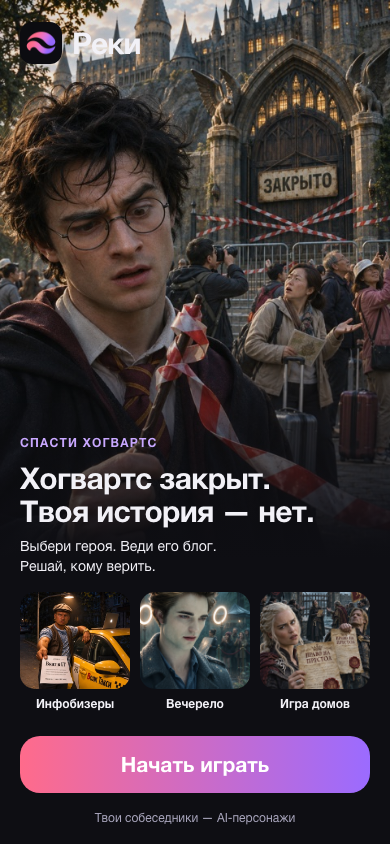
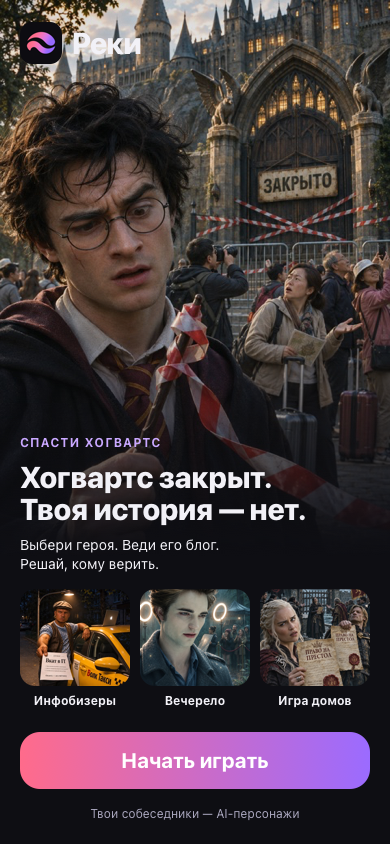
feat(frontend): continue landing selection after auth #205

diff --git a/frontend/src/app/landing/Landing.tsx b/frontend/src/app/landing/Landing.tsx
@@ -1,18 +1,32 @@
 import { useEffect, useRef, useState } from 'react'
+import { api } from '../../api/client'
+import { worlds as templates } from '../../api/worldContent'
+import type { World } from '../../api/types'
 import { Button } from '../../ui'
 import { screenView, trackLanding } from '../analytics'
 import { assignLanding, requestedVariant } from './experiment'
 import './landing.css'
 
 const worlds = [
-  { id: 'infobiz', title: 'Последние инфобизеры' },
-  { id: 'evening', title: 'Вечерело' },
-  { id: 'hogwarts', title: 'Спасти Хогвартс' },
-  { id: 'houses', title: 'Игра домов' },
+  { id: 'infobiz', templateId: '5720946a-ea7c-4a10-9c50-51ce3deefc53', title: 'Последние инфобизеры' },
+  { id: 'evening', templateId: 'b3a1a522-0263-4796-a197-57a8731fc291', title: 'Вечерело' },
+  { id: 'hogwarts', templateId: 'aec9494b-4118-4525-8458-e85d759c8dd9', title: 'Спасти Хогвартс' },
+  { id: 'houses', templateId: '8c02a7fb-3b55-4eb0-b957-1b4869ed9834', title: 'Игра домов' },
 ] as const
 
-export function Landing({ onContinue, preview = false }: { onContinue: () => void; preview?: boolean }) {
+export function Landing({ onContinue, preview = false }: { onContinue: (worldId: string) => void; preview?: boolean }) {
   const [variant] = useState(() => preview ? requestedVariant() ?? 'worlds' : assignLanding())
+  const [selected, setSelected] = useState<string>(variant === 'hogwarts' ? worlds[2].templateId : worlds[0].templateId)
+  const [available, setAvailable] = useState<World[]>([])
+  const [error, setError] = useState(false)
+  const [attempt, setAttempt] = useState(0)
+  useEffect(() => {
+    let active = true
+    setError(false)
+    void api.loadWorldTemplates().then(() => { if (active) setAvailable([...templates]) }).catch(() => { if (active) setError(true) })
+    return () => { active = false }
+  }, [attempt])
+  const chosen = available.find(world => world.id === selected)
   const viewed = useRef(false)
   const clicked = useRef(false)
   const heading = useRef<HTMLHeadingElement>(null)
@@ -24,20 +38,21 @@ export function Landing({ onContinue, preview = false }: { onContinue: () => voi
     trackLanding('landing_view')
   }, [variant, preview])
   const start = () => {
-    if (clicked.current) return
+    if (clicked.current || !chosen) return
     clicked.current = true
-    onContinue()
+    onContinue(chosen.id)
   }
   return <main className={`entry-landing entry-landing--${variant}`} aria-labelledby="landing-title">
     {variant === 'hogwarts' && <img className="landing-hero-art" src="/landing/hogwarts-960.jpg" srcSet="/landing/hogwarts-480.jpg 480w, /landing/hogwarts-960.jpg 960w" sizes="(max-width: 430px) 100vw, 430px" alt="Озадаченный волшебник перед закрытым замком, ограждённым лентой; туристы фотографируют ворота" fetchPriority="high" />}
     <header className="landing-brand"><img src="/android-chrome-192x192.png?v=wave-2" width="42" height="42" alt="" /><span>Реки</span></header>
     {variant === 'worlds' ? <>
       <section className="landing-copy"><h1 ref={heading} id="landing-title" tabIndex={-1}>Твой блог.<br />Твоя история.</h1><p>Выбери героя, пиши посты и смотри, как отвечает его мир.</p></section>
-      <section className="landing-mosaic" aria-label="Игровые миры">{worlds.map(world => <div className="landing-world" key={world.id}><img src={`/landing/${world.id}-480.jpg`} width="480" height="720" alt="" fetchPriority={world.id === 'infobiz' ? 'high' : 'auto'} /><strong>{world.title}</strong></div>)}</section>
+      <section className="landing-mosaic" aria-label="Игровые миры">{worlds.map(world => <button type="button" className="landing-world" key={world.id} aria-pressed={selected === world.templateId} onClick={() => setSelected(world.templateId)}><img src={`/landing/${world.id}-480.jpg`} width="480" height="720" alt="" fetchPriority={world.id === 'infobiz' ? 'high' : 'auto'} /><strong>{world.title}</strong></button>)}</section>
+      <p className="landing-world-summary" aria-live="polite">{chosen?.summary ?? (error ? '' : available.length ? 'Этот мир сейчас недоступен. Выбери другой.' : 'Загружаем миры…')}</p>
     </> : <>
       <section className="landing-hero-copy"><div className="landing-eyebrow">Спасти Хогвартс</div><h1 ref={heading} id="landing-title" tabIndex={-1}>Хогвартс закрыт.<br />Твоя история — нет.</h1><p>Выбери героя. Веди его блог.<br />Решай, кому верить.</p></section>
       <section className="landing-other-worlds" aria-label="Другие игровые миры">{worlds.filter(world => world.id !== 'hogwarts').map(world => <div key={world.id}><img src={`/landing/${world.id}-480.jpg`} width="480" height="720" alt="" /><span>{world.id === 'infobiz' ? 'Инфобизеры' : world.title}</span></div>)}</section>
     </>}
-    <footer className="landing-actions"><Button onClick={start}>Начать играть</Button><p>Твои собеседники — AI-персонажи</p></footer>
+    <footer className="landing-actions">{error && <div role="alert" className="landing-load-error"><p>Не получилось загрузить миры.</p><Button secondary onClick={() => setAttempt(value => value + 1)}>Попробовать снова</Button></div>}{!error && variant === 'hogwarts' && !chosen && <p role="status">{available.length ? 'Этот мир сейчас недоступен.' : 'Загружаем мир…'}</p>}<Button onClick={start} disabled={!chosen}>Начать играть</Button><p>Твои собеседники — AI-персонажи</p></footer>
   </main>
 }

diff --git a/frontend/src/app/landing/experiment.ts b/frontend/src/app/landing/experiment.ts
@@ -1,7 +1,9 @@
 export type LandingVariant = 'worlds' | 'hogwarts'
-type Assignment = { variant: LandingVariant; source: 'link' | 'direct'; utm: Record<string, string>; firstPost?: boolean; initialVariant?: LandingVariant; switched?: boolean }
+type Assignment = { variant: LandingVariant; source: 'link' | 'direct'; utm: Record<string, string>; firstPost?: boolean; initialVariant?: LandingVariant; switched?: boolean; worldId?: string }
 const key = 'reki:landing:entry-v1'
 const authKey = `${key}:auth`
+const worldKey = `${key}:world`
+let worldFallback: string | undefined
 let fallback: Assignment | undefined
 const valid = (value: unknown): value is LandingVariant => value === 'worlds' || value === 'hogwarts'
 export const isLandingPreview = () => !!import.meta.env?.DEV && new URLSearchParams(location.search).get('preview') === 'landing'
@@ -10,6 +12,7 @@ export function requestedVariant(): LandingVariant | undefined {
   return valid(value) ? value : undefined
 }
 function read(): Assignment | undefined {
+  if (fallback) return fallback
   try {
     const value = JSON.parse(localStorage.getItem(key) ?? 'null') as Assignment | null
     if (value && valid(value.variant) && (value.source === 'link' || value.source === 'direct')) return value
@@ -31,6 +34,7 @@ export function assignLanding(): LandingVariant {
     if (value && /^[a-zA-Z0-9_.-]{1,64}$/.test(value)) utm[name] = value
   }
   const assignment: Assignment = { variant: requested ?? 'worlds', source: requested ? 'link' : 'direct', utm, firstPost: saved?.firstPost, initialVariant: saved?.initialVariant ?? saved?.variant ?? requested ?? 'worlds', switched: saved?.switched || !!saved && saved.variant !== requested }
+  clearLandingWorld()
   authFallback = false
   try { sessionStorage.removeItem(authKey) } catch { /* A new landing starts a new entry attempt. */ }
   save(assignment)
@@ -38,7 +42,7 @@ export function assignLanding(): LandingVariant {
 }
 export function landingContext(): Record<string, string> | undefined {
   const value = read()
-  return value ? { ...value.utm, landing_experiment: 'entry_v1', landing_variant: value.variant, landing_initial_variant: valid(value.initialVariant) ? value.initialVariant : value.variant, landing_switched: value.switched ? 'true' : 'false', landing_source: value.source } : undefined
+  return value ? { ...value.utm, landing_experiment: 'entry_v1', landing_variant: value.variant, landing_initial_variant: valid(value.initialVariant) ? value.initialVariant : value.variant, landing_switched: value.switched ? 'true' : 'false', landing_source: value.source, ...(value.worldId ? { landing_world_id: value.worldId } : {}) } : undefined
 }
 let authFallback = false
 export function landingAuthPending(): boolean {
@@ -46,7 +50,11 @@ export function landingAuthPending(): boolean {
   if (requested && requested !== read()?.variant) return false
   try { return sessionStorage.getItem(authKey) === '1' || authFallback } catch { return authFallback }
 }
-export function beginLandingAuth() {
+export function beginLandingAuth(worldId: string) {
+  worldFallback = worldId
+  try { sessionStorage.setItem(worldKey, worldId) } catch { /* Keep this visit usable. */ }
+  const value = read()
+  if (value) save({ ...value, worldId })
   authFallback = true
   try { sessionStorage.setItem(authKey, '1') } catch { /* Keep the button working. */ }
 }
@@ -61,4 +69,12 @@ export function completeLandingPost(): boolean {
   if (isLandingPreview() || !value || value.firstPost) return false
   save({ ...value, firstPost: true })
   return true
+}
+
+export function pendingLandingWorld(): string | undefined {
+  try { return worldFallback ?? sessionStorage.getItem(worldKey) ?? undefined } catch { return worldFallback }
+}
+export function clearLandingWorld() {
+  worldFallback = undefined
+  try { sessionStorage.removeItem(worldKey) } catch { /* In-memory state is enough for this visit. */ }
 }

diff --git a/frontend/src/App.tsx b/frontend/src/App.tsx
@@ -16,7 +16,7 @@ import { useAvatarPersonalization } from './app/avatarPersonalization'
 import type { WorldId } from './api/types'
 
 import { Landing } from './app/landing/Landing'
-import { beginLandingAuth, completeLandingAuth, landingAuthPending, isLandingPreview } from './app/landing/experiment'
+import { beginLandingAuth, completeLandingAuth, landingAuthPending, isLandingPreview, pendingLandingWorld } from './app/landing/experiment'
 
 type Entry = { id: ScreenId; params: Record<string, unknown> }
 
@@ -53,14 +53,16 @@ function Shell() {
   useEffect(() => { setScreen(top.id); screenView(top.id) }, [top.id])
   useEffect(() => { if (player?.experiments) setExperiments(player.experiments) }, [player?.experiments])
   useEffect(() => {
-    if ((playerState !== 'ready' && !(playerState === 'missing' && api.hasPlayer())) || explicitStart || top.id !== '01-1_invite') return
-    setStack([{ id: '01-3_world', params: {} }])
+    if (explicitStart || top.id !== '01-1_invite' || playerState === 'loading' || playerState === 'failed') return
+    const world = pendingLandingWorld()
+    if (world) setStack([{ id: api.hasPlayer() ? '01-3b_world_overview' : '01-2_age', params: { world, fromLanding: true } }])
+    else if (playerState === 'ready' || api.hasPlayer()) setStack([{ id: '01-3_world', params: {} }])
   }, [explicitStart, playerState, top.id])
   const back = useCallback(() => nav.back(), [nav])
   useEffect(() => syncBackButton(stack.length > 1 && top.id !== '02-6_thread', back), [stack.length, top.id, back])
 
   const Screen = SCREENS[top.id]?.component
-  const resolvingExistingPlayer = (playerState === 'ready' || playerState === 'missing' && api.hasPlayer()) && !explicitStart && top.id === '01-1_invite'
+  const resolvingExistingPlayer = (playerState === 'ready' || playerState === 'missing' && (api.hasPlayer() || !!pendingLandingWorld())) && !explicitStart && top.id === '01-1_invite'
   if (!Screen || playerState === 'loading' || resolvingExistingPlayer) return <div className="app"><div className="screen"><div className="pad" role="status">Загружаем твою игру…</div></div></div>
   if (playerState === 'failed') return <div className="app"><div className="screen"><div className="pad"><p>Не получилось загрузить игру.</p><button className="btn" onClick={() => location.reload()}>Попробовать снова</button></div></div></div>
   const people: React.ContextType<typeof AvatarPeople> = {}
@@ -115,8 +117,8 @@ export function App() {
         : 'Не получилось войти. Проверь подключение и попробуй снова.')
     }).finally(() => setBusy(false))
   }
-  if (!explicitStart && (landingPreview || ready && !authenticated && !registration && !resumable && !landingAccepted)) return <Landing preview={landingPreview} onContinue={() => {
-    if (!landingPreview) { beginLandingAuth(); trackLanding('landing_continue') }
+  if (!explicitStart && (landingPreview || ready && !authenticated && !registration && !resumable && !landingAccepted)) return <Landing preview={landingPreview} onContinue={worldId => {
+    if (!landingPreview) { beginLandingAuth(worldId); trackLanding('landing_continue') }
     setLandingAccepted(true); setLandingPreview(false)
   }} />
   if (!explicitStart && !ready) return <div className="app"><div className="screen"><div className="pad" role="status">Входим в игру…</div></div></div>

diff --git a/frontend/src/screens/worldQuick.tsx b/frontend/src/screens/worldQuick.tsx
@@ -1,9 +1,10 @@
+import { clearLandingWorld } from '../app/landing/experiment'
 import { useState, type ReactNode } from 'react'
 import { useStore } from '../app/store'
 import { avatarPersonalization } from '../app/avatarPersonalization'
 import { displayHandle } from '../app/handle'
 import type { AgeBand } from '../app/ageBand'
-import { worldDefinitionOf } from '../api/worldContent'
+import { worldDefinitionOf, worlds } from '../api/worldContent'
 import { api } from '../api/client'
 import { WorldSwitchDialog } from '../ui/WorldSwitchDialog'
 import { presetGoalFor } from '../app/presetGoals'
@@ -20,7 +21,9 @@ export function WorldOverview() {
   const draft = useWorldDraft(); const nav = useNav(); const { player } = useStore()
   const [confirmSwitch, setConfirmSwitch] = useState(false)
   const world = nav.params.world as WorldId | undefined ?? draft?.definition.templateId
-  if (!world) return <div className="screen no-tab world-overview"><TopBar title="Обзор мира" onBack={nav.back} /><div className="pad"><Button onClick={() => nav.replace('01-3_world')}>Выбрать мир</Button></div></div>
+  const catalog = () => { clearLandingWorld(); nav.replace('01-3_world', { group: nav.params.group, ageBand: nav.params.ageBand }) }
+  const back = () => nav.params.fromLanding ? catalog() : nav.back()
+  if (!world || !worlds.some(template => template.id === world)) return <div className="screen no-tab world-overview"><TopBar title="Обзор мира" onBack={back} /><div className="pad"><p>Этот мир сейчас недоступен.</p><Button onClick={catalog}>Выбрать мир</Button></div></div>
   const d = worldDefinitionOf(world); const art = worldArt[d.templateId ?? '']; const goal = presetGoalFor(d)
   const begin = (confirmed = false) => {
     selectDraftOwner(player?.id ?? api.playerId() ?? 'onboarding')
@@ -28,7 +31,7 @@ export function WorldOverview() {
     if (!confirmed && previous && (previous.definition.templateId !== world || previous.editingId)) { setConfirmSwitch(true); return }
     const restored = savedWorldDraft(world)
     const profile = player ?? api.onboardingProfile()
-    setWorldDraft(restored && !restored.previewOnly ? restored : {
+    setWorldDraft(restored && !restored.previewOnly ? { ...restored, ...(nav.params.ageBand ? { group: nav.params.group as '14-17' | '18+', ageBand: nav.params.ageBand as AgeBand } : {}) } : {
       definition: d, heroOrder: d.stars.map(star => star.id), address: profile?.address ?? 'nick',
       group: profile ? (profile.ageBand === '14-17' ? '14-17' : '18+') : (nav.params.group as '14-17' | '18+') ?? '14-17',
       ageBand: profile?.ageBand ?? nav.params.ageBand as AgeBand | undefined,
@@ -37,7 +40,7 @@ export function WorldOverview() {
     setConfirmSwitch(false)
     nav.push('01-4_channel')
   }
-  return <div className="screen no-tab world-overview"><TopBar title="Обзор мира" onBack={nav.back} />
+  return <div className="screen no-tab world-overview"><TopBar title="Обзор мира" onBack={back} />
     {art && <WorldCover world={world} className="world-hero" priority alt={`Обложка мира «${d.title}»`} />}
     <div className="pad"><div className="small eyebrow">{art?.genre}</div><h1>{d.emoji} {d.title}</h1><p className="muted">{art?.pitch ?? d.description}</p>
       {goal && <Card><div className="small eyebrow">Твой путь</div><p>{goal.goal}</p></Card>}

diff --git a/frontend/src/screens/worldWizard.tsx b/frontend/src/screens/worldWizard.tsx
@@ -1,3 +1,4 @@
+import { clearLandingWorld } from '../app/landing/experiment'
 import {PushNotifications} from '../app/push/PushNotifications'
 import {InstallApp} from '../app/install/InstallApp'
 import { Resources } from '../ui/Resources'
@@ -37,7 +38,7 @@ export function ChooseWorld() {
   }
   const currentWorld = player ? owned.find(world => world.id === player.worldInstanceId) ?? { ...worldDocumentOf(player.world), id: player.worldInstanceId ?? player.world, name: player.name, avatar: player.handle, subscribers: player.subs } : undefined
   const otherWorlds = owned.filter(world => world.id !== currentWorld?.id)
-  const resume = async (world: WorldDocument) => { try { const next = await api.me(world.id); setPlayer(next); nav.push('03-5_stage') } catch { setError('Не получилось открыть мир.') } }
+  const resume = async (world: WorldDocument) => { try { const next = await api.me(world.id); clearLandingWorld(); setPlayer(next); nav.push('03-5_stage') } catch { setError('Не получилось открыть мир.') } }
   return <div className="screen no-tab"><TopBar title="Миры" rightPlain right={player ? <Resources player={player} /> : undefined} />
     <div className="pad world-catalog-page worlds-home"><InstallApp entry="banner" />{player && <PushNotifications key={player.id} playerId={player.id} entry="banner" />}{!player && <><h1>Выбери свою историю</h1><p className="muted">Готовые миры доступны сразу.</p></>}
       {getWorldDraft() && <Button secondary onClick={() => nav.push(getWorldDraft()?.definition.templateId === null ? '05-7b_own_world' : '01-4_channel')}>Продолжить настройку</Button>}
@@ -87,7 +88,7 @@ function StarsForm({ draft, quick = false }: { draft: NonNullable<ReturnType<typ
       creatingWorld = !draft.editingId
       const player = draft.editingId ? await api.saveWorld(draft.editingId, d) : await api.createWorld(d)
       setAvatarPersonalization(player.id, draft.personalizeAvatar !== false)
-      setWorldDraft(null); setPlayer(player); nav.replace('03-5_stage')
+      clearLandingWorld(); setWorldDraft(null); setPlayer(player); nav.replace('03-5_stage')
     } catch (cause) {
       if (creatingWorld && !(cause instanceof ApiError)) { setUncertain(true); setError('Не удалось подтвердить создание. Сначала проверь список миров: повтор может создать ещё один экземпляр.') }
       else setError(cause instanceof ApiError && cause.status === 409 ? 'Мир изменился или создание с нуля пока недоступно. Твои изменения сохранены в черновике.' : cause instanceof ApiError && cause.status === 503 ? 'Проверка истории временно недоступна. Настройки сохранены — попробуй начать ещё раз чуть позже.' : 'Не получилось сохранить мир. Проверь поля и попробуй снова.')

diff --git a/frontend/src/screens/onboarding.tsx b/frontend/src/screens/onboarding.tsx
@@ -1,3 +1,4 @@
+import { pendingLandingWorld } from '../app/landing/experiment'
 import { Resources } from '../ui/Resources'
 import { Streak } from '../ui/Streak'
 import { displayHandle } from '../app/handle'
@@ -84,7 +85,7 @@ function Age() {
         </Card>
         {!agree && <div className="small muted" style={{ textAlign: 'center', marginTop: 10 }}>Отметь согласие, чтобы продолжить</div>}
       </div>
-      <BottomCTA main="Дальше" disabled={!agree} onMain={() => { track('onboarding_step', { step: 'age', ok: age >= 14 }); nav.push(age < 14 ? '01-2b_under14' : '01-3_world', { group: age < 18 ? '14-17' : '18+', ageBand: ageBand(age) }) }} />
+      <BottomCTA main="Дальше" disabled={!agree} onMain={() => { track('onboarding_step', { step: 'age', ok: age >= 14 }); const world = pendingLandingWorld(); nav.push(age < 14 ? '01-2b_under14' : world ? '01-3b_world_overview' : '01-3_world', { ...(world ? { world, fromLanding: true } : {}), group: age < 18 ? '14-17' : '18+', ageBand: ageBand(age) }) }} />
     </div>
   )
 }

diff --git a/frontend/src/app/landing/landing.css b/frontend/src/app/landing/landing.css
@@ -28,3 +28,10 @@
 @media (max-width:350px) { .entry-landing { padding-inline:16px; } .entry-landing h1 { font-size:28px; } .landing-world strong { font-size:16px; left:11px; bottom:12px; } .landing-other-worlds { gap:7px; } }
 
 @media (max-width:300px) { .landing-mosaic { grid-template-columns:1fr; grid-template-rows:repeat(4,320px); height:auto; } .landing-other-worlds span { overflow-wrap:anywhere; } }
+
+button.landing-world { padding:0; border:2px solid transparent; color:var(--text); font:inherit; text-align:left; cursor:pointer; appearance:none; }
+button.landing-world[aria-pressed="true"] { border-color:var(--lilac); }
+button.landing-world:focus-visible { outline:2px solid var(--lilac); outline-offset:3px; }
+.landing-world-summary { min-height:42px; margin:12px 0 0; color:var(--muted); font-size:14px; line-height:1.4; }
+.landing-load-error { margin-bottom:14px; }
+.landing-load-error p { margin:0 0 10px; font-size:14px; }

diff --git a/frontend/src/api/client.ts b/frontend/src/api/client.ts
@@ -1,3 +1,4 @@
+import { clearLandingWorld } from '../app/landing/experiment'
 import { completeLandingPost } from '../app/landing/experiment';
 // Р¤Р°СЃР°Рґ API РїРѕРІРµСЂС… NSwag Fetch-РєР»РёРµРЅС‚Р°.
 // Р’Рѕ С„СЂРѕРЅС‚Рµ РќР•Рў СЃРµРєСЂРµС‚РѕРІ: runtime config РІРёРґРµРЅ РІ Р±СЂР°СѓР·РµСЂРµ. РљР»СЋС‡Рё LLM Рё С‚РѕРєРµРЅ Р±РѕС‚Р° Р¶РёРІСѓС‚ С‚РѕР»СЊРєРѕ РЅР° Р±СЌРєРµРЅРґРµ.
@@ -173,6 +174,7 @@ export const api = {
     },
     logout: async () => {
         await revokeSession();
+        clearLandingWorld();
         api.clearSession();
     },
     loadWorldTemplates: loadTemplates,

diff --git a/docs/analytics.md b/docs/analytics.md
@@ -160,7 +160,7 @@ Stickiness — сумма активных профиле-дней / число 
 | `landing_auth_complete` | После нажатия получен app-доступ или сервер подтвердил внешнюю идентичность для регистрации. Это подтверждение входа, не завершение создания мира. Восстановление уже действующей сессии само по себе не создаёт цель. |
 | `landing_first_post` | Сервер подтвердил создание первого обычного поста после участия в лендинге. Репосты, цитаты, комментарии, нажатие «Опубликовать» и ошибки запроса не засчитываются. Повторные посты в том же эксперименте не создают цель снова. |
 
-Параметры целей: `landing_experiment=entry_v1`, `landing_variant=worlds|hogwarts` (реально показанный экран), `landing_initial_variant` (исходная группа), `landing_switched=true|false`, `landing_source=link|direct`, а также прошедшие фильтр короткие UTM-коды. Явный параметр ссылки имеет приоритет над сохранённым экраном; без него сохраняется последний выбор. При переключении обновляются вариант и UTM из новой ссылки, сохраняются исходная группа и отметка уже учтённого первого поста. Такие посетители получают `landing_switched=true`; их исключают из чистого сравнения, чтобы не приписывать конверсию другому экрану. Смена группы начинает новую попытку входа, а не продолжает незавершённую попытку предыдущего варианта. Очистка хранилища или другой браузер создают новое участие. Это клиентское измерение по подтверждённому ответу, не серверный реестр всех сохранённых постов: потерянный ответ может дать недоучёт.
+Параметры целей: `landing_experiment=entry_v1`, `landing_variant=worlds|hogwarts` (реально показанный экран), `landing_initial_variant` (исходная группа), `landing_switched=true|false`, `landing_source=link|direct`, а также прошедшие фильтр короткие UTM-коды. После «Начать играть» передаётся `landing_world_id` — ID выбранного шаблона из публичного API; он сохраняется для следующих шагов воронки. Явный параметр ссылки имеет приоритет над сохранённым экраном; без него сохраняется последний выбор. При переключении обновляются вариант и UTM из новой ссылки, сохраняются исходная группа и отметка уже учтённого первого поста. Такие посетители получают `landing_switched=true`; их исключают из чистого сравнения, чтобы не приписывать конверсию другому экрану. Смена группы начинает новую попытку входа, а не продолжает незавершённую попытку предыдущего варианта. Очистка хранилища или другой браузер создают новое участие. Это клиентское измерение по подтверждённому ответу, не серверный реестр всех сохранённых постов: потерянный ответ может дать недоучёт.
 
 Цели отправляются только production-сборкой. DEV-предпросмотр исключён из целей и локального закрепления. Нажатия, подтверждение входа и первый пост дополнительно используют существующее внутреннее событие `tap`, где `id` совпадает с именем цели, `kind` — вариант. Они доставляются в OpenObserve только после появления профиля; для общего знаменателя использовать Метрику. Backend-таксономия не меняется.
 

diff --git a/docs/game-flow.md b/docs/game-flow.md
@@ -334,7 +334,7 @@ ownWords хранит происхождение черновика: новый 
 
 ## Первый экран перед авторизацией — A/B (#205, 14.11.2026)
 
-Перед текущим браузерным входом показываем один из двух согласованных лендингов: четыре мира (`?landing=worlds`) или крупная обложка Хогвартса (`?landing=hogwarts`). В обоих одна кнопка «Начать играть» открывает прежнюю авторизацию. После входа остаётся одинаковый путь игры; лендинг Хогвартса не выбирает мир за игрока. Карточки на первом экране — иллюстрации, а не выбор роли или мира.
+Перед текущим браузерным входом показываем один из двух согласованных лендингов: четыре мира (`?landing=worlds`) или крупная обложка Хогвартса (`?landing=hogwarts`). До входа загружаем готовые миры через публичный `GET /worlds/templates`. В варианте с четырьмя мирами карточки выбирают мир и меняют краткое описание из API; по умолчанию выбран первый. Лендинг Хогвартса выбирает шаблон «Школа чародеев». Связь иллюстрации с шаблоном задаётся его ID, а не названием. «Начать играть» сохраняет выбранный ID на текущую попытку входа и открывает прежнюю авторизацию. Новый игрок после входа обязательно указывает возраст и отдельно отмечает согласие на обработку данных; младше 14 лет регистрация не продолжается. Затем сразу открывается обзор выбранного мира, выбор персонажа и настройка истории — повторного каталога нет. У зарегистрированного игрока повторного согласия нет: после входа открывается обзор выбранного мира. Из обзора можно добровольно вернуться в каталог. Перезагрузка до создания мира сохраняет выбор в пределах вкладки; успешное создание, добровольный возврат в каталог, продолжение существующей истории или выход очищает незавершённый выбор. Ошибка API даёт повтор загрузки, недоступный шаблон не заменяем другим молча.
 
 Явный корректный параметр `landing` всегда выбирает соответствующий экран, даже если раньше был сохранён другой вариант. Без параметра используется последний сохранённый экран. Исходная группа сохраняется отдельно, а посетители, увидевшие оба варианта, помечаются `landing_switched=true` и исключаются из чистого A/B-сравнения. Переключение не обнуляет уже учтённый первый пост. Обычный вход без параметра получает четыре мира и отдельный источник `direct`, который исключают из рекламного сравнения. Распределение рекламной аудитории 50/50 задаётся в рекламной системе, приложение не перераспределяет посетителей. Существующая авторизованная сессия, подтверждённая внешняя идентичность и восстановление незавершённого входа пропускают лендинг. Выход из аккаунта в открытом приложении возвращает к авторизации.
 
